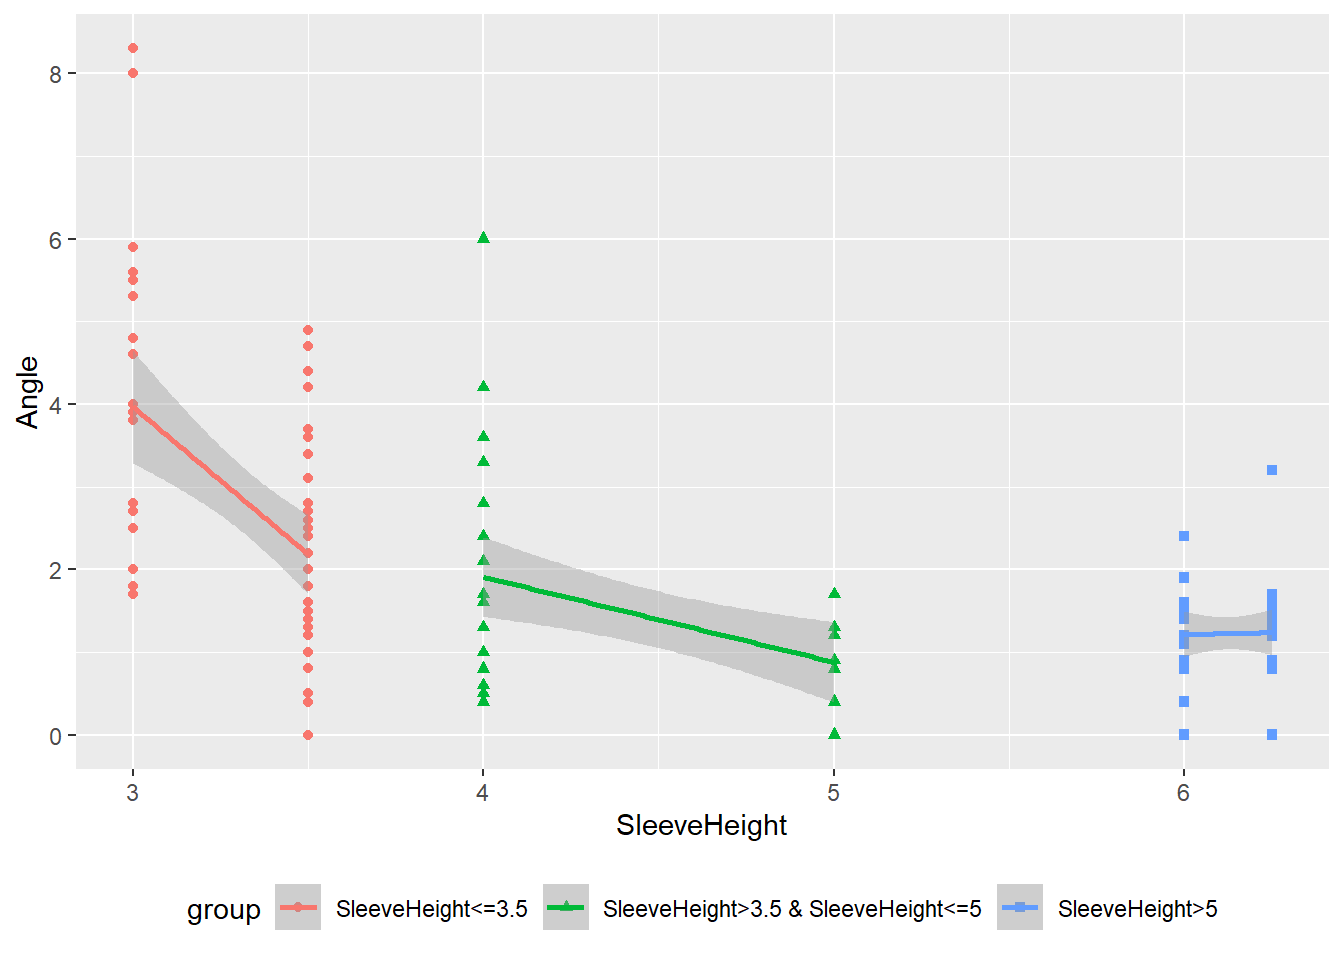
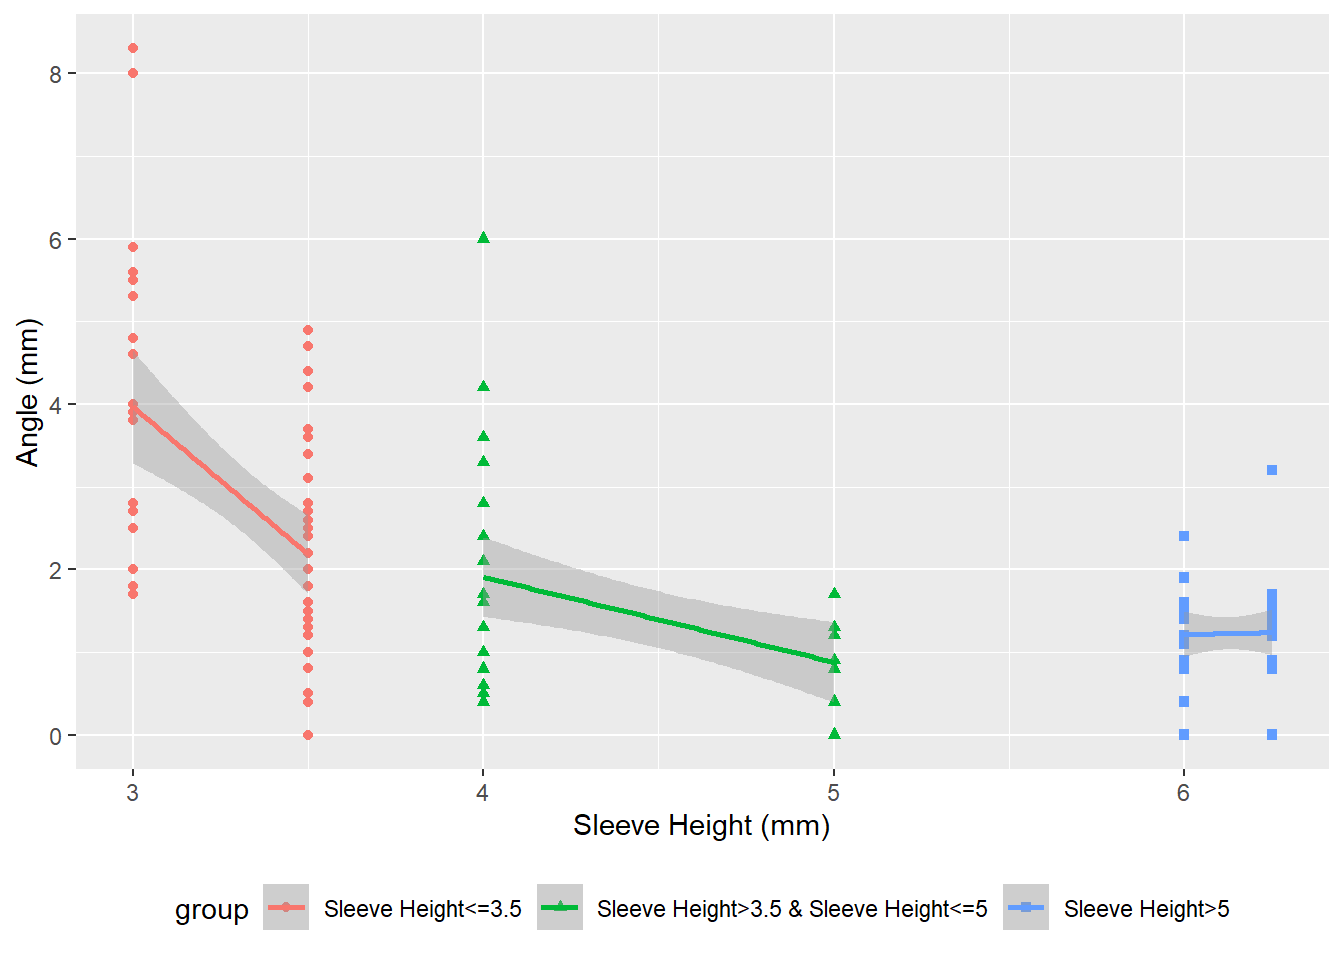
12/21/2022

diff --git a/docs/2022_Dec3_Arndt.html b/docs/2022_Dec3_Arndt.html
@@ -404,7 +404,7 @@ aria-hidden="true"></span> </a>
 <div class="tab-content">
 <div id="summary" class="tab-pane fade in active">
 <p>
-<strong>Last updated:</strong> 2022-12-20
+<strong>Last updated:</strong> 2022-12-21
 </p>
 <p>
 <strong>Checks:</strong> <span
@@ -538,15 +538,15 @@ project makes it easier to run your code on other machines.</p>
 <div class="panel panel-default">
 <div class="panel-heading">
 <p class="panel-title">
-<a data-toggle="collapse" data-parent="#workflowr-checks" href="#strongRepositoryversionstrongahrefhttpsgithubcomhan16Collaborationstreee55d09bc9aa41299475d17551dec72dc7907ffdetargetblanke55d09ba">
+<a data-toggle="collapse" data-parent="#workflowr-checks" href="#strongRepositoryversionstrongahrefhttpsgithubcomhan16Collaborationstreed9e96e2a9cf062fee48b43fe4d27ef5c75de27a6targetblankd9e96e2a">
 <span class="glyphicon glyphicon-ok text-success"
 aria-hidden="true"></span> <strong>Repository version:</strong>
-<a href="https://github.com/han16/Collaborations/tree/e55d09bc9aa41299475d17551dec72dc7907ffde" target="_blank">e55d09b</a>
+<a href="https://github.com/han16/Collaborations/tree/d9e96e2a9cf062fee48b43fe4d27ef5c75de27a6" target="_blank">d9e96e2</a>
 </a>
 </p>
 </div>
 <div
[2 lines of base64/hex data omitted]
 class="panel-collapse collapse">
 <div class="panel-body">
 <p>
@@ -556,7 +556,7 @@ reproducibility.
 </p>
 <p>
 The results in this page were generated with repository version
-<a href="https://github.com/han16/Collaborations/tree/e55d09bc9aa41299475d17551dec72dc7907ffde" target="_blank">e55d09b</a>.
+<a href="https://github.com/han16/Collaborations/tree/d9e96e2a9cf062fee48b43fe4d27ef5c75de27a6" target="_blank">d9e96e2</a>.
 See the <em>Past versions</em> tab to see a history of the changes made
 to the R Markdown and HTML files.
 </p>
@@ -574,6 +574,7 @@ Ignored files:
     Ignored:    analysis/.Rhistory
 
 Unstaged changes:
+    Modified:   analysis/2022_DEc1_Teerarat.Rmd
     Modified:   analysis/2022_Dec3_Arndt.Rmd
 
 </code></pre>
@@ -620,6 +621,40 @@ Message
 </tr>
 </thead>
 <tbody>
+<tr>
+<td>
+Rmd
+</td>
+<td>
+<a href="https://github.com/han16/Collaborations/blob/d9e96e2a9cf062fee48b43fe4d27ef5c75de27a6/analysis/2022_Dec3_Arndt.Rmd" target="_blank">d9e96e2</a>
+</td>
+<td>
+Han
+</td>
+<td>
+2022-12-20
+</td>
+<td>
+12/20/2022
+</td>
+</tr>
+<tr>
+<td>
+html
+</td>
+<td>
+<a href="https://rawcdn.githack.com/han16/Collaborations/d9e96e2a9cf062fee48b43fe4d27ef5c75de27a6/docs/2022_Dec3_Arndt.html" target="_blank">d9e96e2</a>
+</td>
+<td>
+Han
+</td>
+<td>
+2022-12-20
+</td>
+<td>
+12/20/2022
+</td>
+</tr>
 <tr>
 <td>
 Rmd
@@ -724,8 +759,25 @@ observations (3) <code>SleeveHeight&gt;5</code>, 40 observations</li>
 <h3>SleeveHeight&gt;5</h3>
 <p><img src="figure/2022_Dec3_Arndt.Rmd/unnamed-chunk-5-1.png" width="672" style="display: block; margin: auto;" /></p>
 <p><img src="figure/2022_Dec3_Arndt.Rmd/unnamed-chunk-6-1.png" width="672" style="display: block; margin: auto;" /></p>
+<ul>
+<li>“We use 3.5mm and 5mm as cutoff to split 140 data points to 3
+groups. In each group, apply linear regression model with Angle as
+response and sleeve height as predictor. Coefficient estimates are
+presented in the Table and regression lines are shown in the graph. From
+parameter estimate in the table, when sleeve height is less than or
+equal to 3.5mm, 1mm increase in sleeve height will result in 3.57mm
+decrease for angle, however, when sleeve height is larger than 6mm, 1mm
+increase in sleeve height leads to 0.09mm increase in angle.”</li>
+</ul>
 <div class="datatables html-widget html-fill-item-overflow-hidden html-fill-item" id="htmlwidget-9eceb20dc2a931752ae4" style="width:100%;height:auto;"></div>
-<script type="application/json" data-for="htmlwidget-9eceb20dc2a931752ae4">{"x":{"filter":"none","vertical":false,"extensions":["Buttons"],"data":[["1","2","3"],["SleeveHeight&lt;=3.5","SleeveHeight&gt;3.5 &amp; SleeveHeight&lt;=5","SleeveHeight&gt;5"],[-3.57,-1.03,0.09],[-5.24,-1.72,-1.46],[-1.9,-0.34,1.65],["7.06e-05","0.004240","0.903"]],"container":"<table class=\"display\">\n  <thead>\n    <tr>\n      <th> <\/th>\n      <th>group<\/th>\n      <th>SleeveHeight_coefficient<\/th>\n      <th>CI_low<\/th>\n      <th>CI_upper<\/th>\n      <th>pvalue<\/th>\n    <\/tr>\n  <\/thead>\n<\/table>","options":{"dom":"Blfrtip","buttons":["copy","csv","excel","pdf","print"],"lengthMenu":[[10,25,50,-1],["10","25","50","All"]],"columnDefs":[{"className":"dt-right","targets":[2,3,4]},{"orderable":false,"targets":0}],"order":[],"autoWidth":false,"orderClasses":false}},"evals":[],"jsHooks":[]}</script>
+<script type="application/json" data-for="htmlwidget-9eceb20dc2a931752ae4">{"x":{"filter":"none","vertical":false,"extensions":["Buttons"],"data":[["1","2","3"],["SleeveHeight&lt;=3.5","Sleeve Height&gt;3.5 &amp; Sleeve Height&lt;=5","Sleeve Height&gt;5"],[-3.57,-1.03,0.09],[-5.24,-1.72,-1.46],[-1.9,-0.34,1.65],["7.06e-05","0.004240","0.903"]],"container":"<table class=\"display\">\n  <thead>\n    <tr>\n      <th> <\/th>\n      <th>group<\/th>\n      <th>SleeveHeight_coefficient<\/th>\n      <th>CI_low<\/th>\n      <th>CI_upper<\/th>\n      <th>pvalue<\/th>\n    <\/tr>\n  <\/thead>\n<\/table>","options":{"dom":"Blfrtip","buttons":["copy","csv","excel","pdf","print"],"lengthMenu":[[10,25,50,-1],["10","25","50","All"]],"columnDefs":[{"className":"dt-right","targets":[2,3,4]},{"orderable":false,"targets":0}],"order":[],"autoWidth":false,"orderClasses":false}},"evals":[],"jsHooks":[]}</script>
+</div>
+<div id="two-groups" class="section level3">
+<h3>two groups</h3>
+<p><img src="figure/2022_Dec3_Arndt.Rmd/unnamed-chunk-8-1.png" width="672" style="display: block; margin: auto;" /></p>
+<p><img src="figure/2022_Dec3_Arndt.Rmd/unnamed-chunk-9-1.png" width="672" style="display: block; margin: auto;" /></p>
+<div class="datatables html-widget html-fill-item-overflow-hidden html-fill-item" id="htmlwidget-f30d7598595affc4f25a" style="width:100%;height:auto;"></div>
+<script type="application/json" data-for="htmlwidget-f30d7598595affc4f25a">{"x":{"filter":"none","vertical":false,"extensions":["Buttons"],"data":[["1","2"],["SleeveHeight&lt;=4","SleeveHeight&gt;4"],[-2.06,0.3],[-3.03,0.04],[-1.09,0.56],["6.63e-05","0.0245"]],"container":"<table class=\"display\">\n  <thead>\n    <tr>\n      <th> <\/th>\n      <th>group<\/th>\n      <th>SleeveHeight_coefficient<\/th>\n      <th>CI_low<\/th>\n      <th>CI_upper<\/th>\n      <th>pvalue<\/th>\n    <\/tr>\n  <\/thead>\n<\/table>","options":{"dom":"Blfrtip","buttons":["copy","csv","excel","pdf","print"],"lengthMenu":[[10,25,50,-1],["10","25","50","All"]],"columnDefs":[{"className":"dt-right","targets":[2,3,4]},{"orderable":false,"targets":0}],"order":[],"autoWidth":false,"orderClasses":false}},"evals":[],"jsHooks":[]}</script>
 </div>
 </div>
 <div id="statistical-software" class="section level2">
